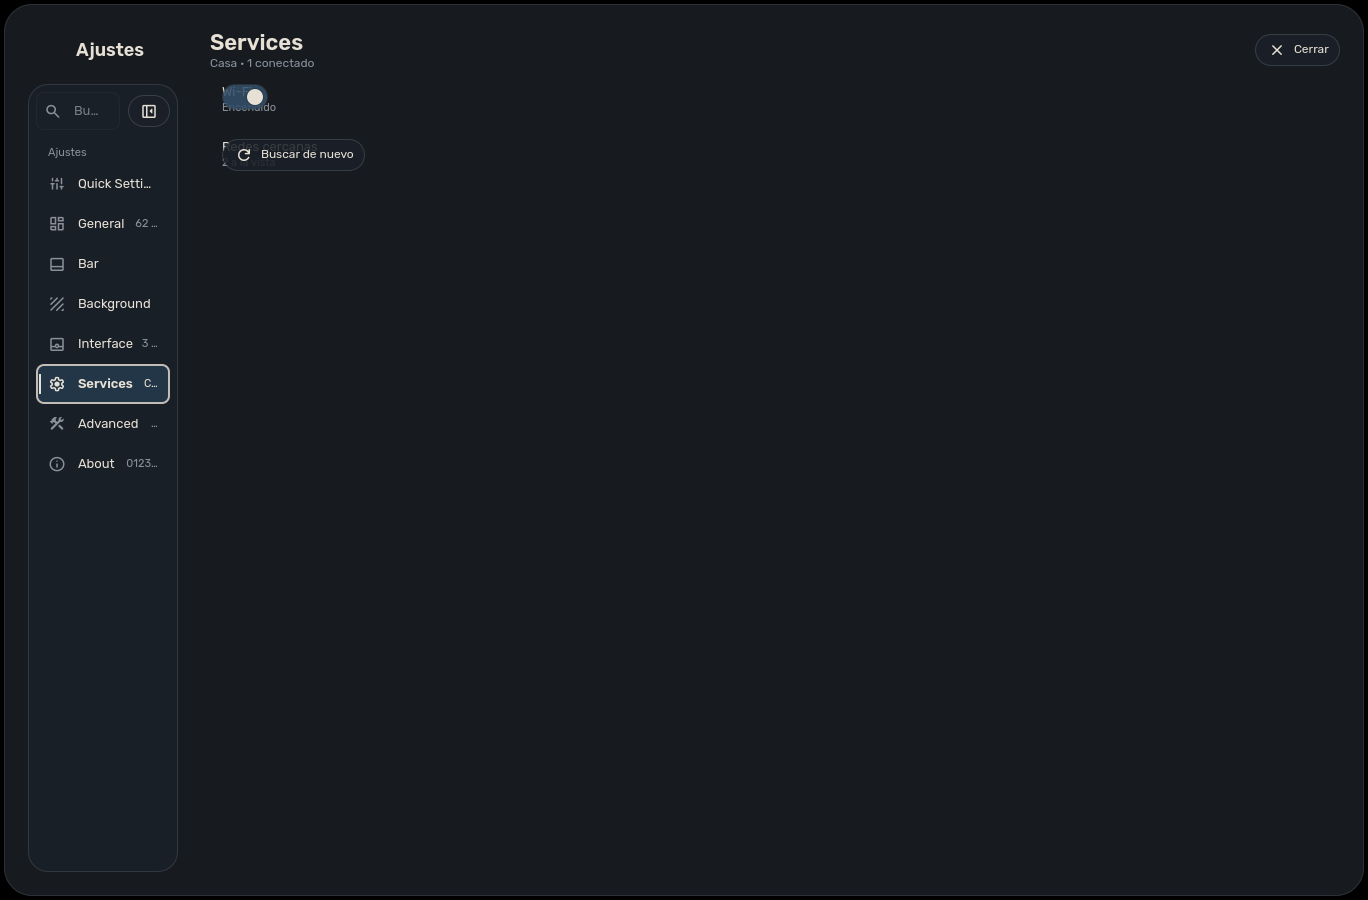
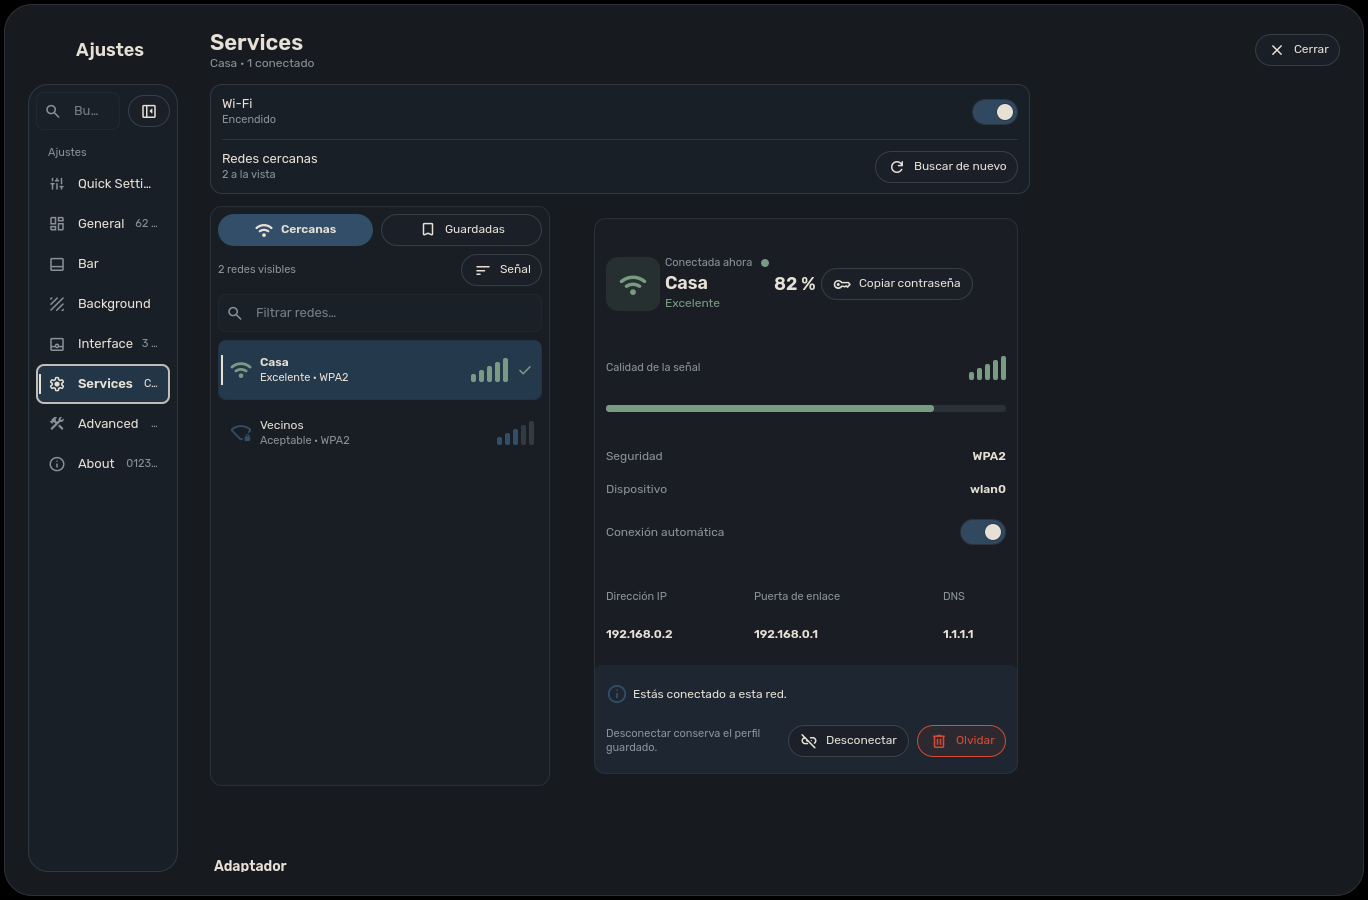
fix(settings): fill services viewport and verify controls

diff --git a/cortetsu/modules/settings/sections/NotificationsSection.qml b/cortetsu/modules/settings/sections/NotificationsSection.qml
@@ -64,6 +64,7 @@ ColumnLayout {
         }
 
         SettingToggleRow {
+            objectName: "toastCapsLockChanged"
             title: qsTr("Avisar de Bloq Mayús")
             detail: qsTr("Un aviso breve al activar o desactivar Bloq Mayús")
             checked: CortetsuConfig.toastCapsLockChanged
@@ -71,6 +72,7 @@ ColumnLayout {
         }
 
         SettingToggleRow {
+            objectName: "toastNumLockChanged"
             title: qsTr("Avisar de Bloq Num")
             detail: qsTr("Un aviso breve al activar o desactivar Bloq Num")
             checked: CortetsuConfig.toastNumLockChanged
@@ -78,6 +80,7 @@ ColumnLayout {
         }
 
         SettingToggleRow {
+            objectName: "toastKbLayoutChanged"
             title: qsTr("Avisar del cambio de distribución")
             detail: qsTr("Un aviso breve al cambiar la distribución del teclado")
             checked: CortetsuConfig.toastKbLayoutChanged
@@ -85,6 +88,7 @@ ColumnLayout {
         }
 
         SettingToggleRow {
+            objectName: "toastDndChanged"
             title: qsTr("Avisar de No molestar")
             detail: qsTr("Un aviso breve al activar o desactivar No molestar")
             checked: CortetsuConfig.toastDndChanged
@@ -92,6 +96,7 @@ ColumnLayout {
         }
 
         SettingToggleRow {
+            objectName: "toastNowPlaying"
             title: qsTr("Avisar de la pista en reproducción")
             detail: qsTr("Un aviso al cambiar de pista o de reproductor")
             checked: CortetsuConfig.toastNowPlaying
@@ -99,6 +104,7 @@ ColumnLayout {
         }
 
         SettingToggleRow {
+            objectName: "notificationOpenExpanded"
             title: qsTr("Abrir avisos expandidos")
             detail: qsTr("Mostrar el cuerpo completo de cada aviso al llegar")
             checked: CortetsuConfig.notificationOpenExpanded

diff --git a/cortetsu/modules/settings/pages/ServicesPage.qml b/cortetsu/modules/settings/pages/ServicesPage.qml
@@ -9,7 +9,10 @@ ColumnLayout {
     id: root
     required property var context
     spacing: CortetsuDesign.spacingSection
-    NetworkPage { context: root.context }
+    NetworkPage {
+        context: root.context
+        Layout.fillWidth: true
+    }
     BluetoothSection { context: root.context }
     AutomationSection { context: root.context }
     WeatherSection {}

diff --git a/scripts/features/test-cortetsu-settings-runtime.py b/scripts/features/test-cortetsu-settings-runtime.py
@@ -625,6 +625,8 @@ ShellRoot {
         [() => !!content && content.pageId === "services" && !!page("wifiPower"), () => {
             window.requestActivate();
             memo.wifi = page("wifiPower");
+            verify(memo.wifi.width >= 500 && Math.abs(memo.wifi.width - content.page.width) <= 1,
+                "the Wi-Fi workbench fills the Settings viewport before its first group is drawn");
             verify(find(memo.wifi, "switch").checked && get("nexus-services").value.includes("Casa"), "the page and navigation show the live connection");
             memo.wifi.forceActiveFocus();
             key(Qt.Key_Space);
@@ -1454,7 +1456,10 @@ ShellRoot {
     ]
 
     readonly property var migratedControls: [
-        [() => CortetsuConfig.loaded, () => { select("interface"); screenDouble.settings = true; window.requestActivate(); }],
+        [() => CortetsuConfig.loaded, () => {
+            root.writes = 0;
+            select("interface"); screenDouble.settings = true; window.requestActivate();
+        }],
         [() => window.active && !!page("desktopClockEnabled"), () => {
             const toggle = page("desktopClockEnabled");
             verify(CortetsuConfig.desktopClockEnabled && toggle.checked, "the desktop clock control starts from the active owner state");
@@ -1493,6 +1498,61 @@ ShellRoot {
             verify(CortetsuConfig.desktopClockEnabled === false && CortetsuConfig.bottomHub.segments.apps === false
                 && CortetsuConfig.useFahrenheit === true && CortetsuConfig.useFuzzyApps === true,
                 "a fresh process restores the clock, Bottom Hub, temperature and fuzzy-search preferences");
+        }]
+    ]
+
+    readonly property var existingPreferenceControls: [
+        [() => CortetsuConfig.loaded, () => { select("interface"); screenDouble.settings = true; window.requestActivate(); }],
+        [() => window.active && !!page("fuzzyActions") && !!page("fuzzySchemes"), () => {
+            verify(Actions.useFuzzy && Schemes.useFuzzy, "launcher search services start from their saved fuzzy preferences");
+            const actions = page("fuzzyActions");
+            actions.forceActiveFocus(); key(Qt.Key_Space);
+            verify(!CortetsuConfig.useFuzzyActions && !Actions.useFuzzy,
+                "the Settings control changes the live launcher action search policy");
+            const schemes = page("fuzzySchemes");
+            schemes.forceActiveFocus(); key(Qt.Key_Space);
+            verify(!CortetsuConfig.useFuzzySchemes && !Schemes.useFuzzy,
+                "the Settings control changes the live scheme search policy");
+        }],
+        [() => CortetsuConfig.saveState === "saved", () => {
+            verify(root.writes === 1, `both search preferences settle into one debounced write (${root.writes})`);
+            root.writes = 0;
+            select("notifications");
+        }],
+        [() => !!page("toastCapsLockChanged") && !!page("toastNumLockChanged")
+            && !!page("toastKbLayoutChanged") && !!page("toastDndChanged")
+            && !!page("toastNowPlaying") && !!page("notificationOpenExpanded"), () => {
+            window.requestActivate();
+        }],
+        [() => window.active, () => {
+            const names = ["toastCapsLockChanged", "toastNumLockChanged", "toastKbLayoutChanged",
+                "toastDndChanged", "toastNowPlaying", "notificationOpenExpanded"];
+            for (const name of names) {
+                const toggle = page(name);
+                verify(toggle.checked, `${name} restores enabled in the test fixture`);
+                toggle.forceActiveFocus(); key(Qt.Key_Space);
+                verify(CortetsuConfig[name] === false && !toggle.checked,
+                    `${name} updates its live preference owner through the Settings control`);
+            }
+        }],
+        [() => CortetsuConfig.saveState === "saved", () => {
+            verify(!CortetsuConfig.useFuzzyActions && !CortetsuConfig.useFuzzySchemes
+                && !CortetsuConfig.toastCapsLockChanged && !CortetsuConfig.toastNumLockChanged
+                && !CortetsuConfig.toastKbLayoutChanged && !CortetsuConfig.toastDndChanged
+                && !CortetsuConfig.toastNowPlaying && !CortetsuConfig.notificationOpenExpanded,
+                "all existing Settings preferences reach their confirmed backend values before persistence");
+            verify(root.writes === 1, `the six notification controls settle into one debounced write (${root.writes})`);
+        }]
+    ]
+
+    readonly property var existingPreferenceControlsRestore: [
+        [() => CortetsuConfig.loaded, () => {
+            verify(!CortetsuConfig.useFuzzyActions && !CortetsuConfig.useFuzzySchemes
+                && !CortetsuConfig.toastCapsLockChanged && !CortetsuConfig.toastNumLockChanged
+                && !CortetsuConfig.toastKbLayoutChanged && !CortetsuConfig.toastDndChanged
+                && !CortetsuConfig.toastNowPlaying && !CortetsuConfig.notificationOpenExpanded
+                && !Actions.useFuzzy && !Schemes.useFuzzy,
+                "a fresh process restores all eight existing preference controls and their search consumers");
         }]
     ]
 
@@ -1851,6 +1911,20 @@ with tempfile.TemporaryDirectory(prefix="cortetsu-settings-") as temporary:
     restored, _ = run(folder, "shell.qml", "migratedControlsRestore", preferences=migrated_saved)
     assert passed(restored) == 1, restored
 
+    existing_saved = {
+        "schema": 1, "useFuzzyActions": True, "useFuzzySchemes": True,
+        "toastCapsLockChanged": True, "toastNumLockChanged": True,
+        "toastKbLayoutChanged": True, "toastDndChanged": True,
+        "toastNowPlaying": True, "notificationOpenExpanded": True,
+    }
+    output, existing_home = run(folder, "shell.qml", "existingPreferenceControls", preferences=existing_saved)
+    assert passed(output) == 18, output
+    existing_persisted = json.loads((existing_home / ".config/cortetsu/preferences.json").read_text())
+    for key in existing_saved.keys() - {"schema"}:
+        assert existing_persisted[key] is False, (key, existing_persisted)
+    restored, _ = run(folder, "shell.qml", "existingPreferenceControlsRestore", preferences=existing_persisted)
+    assert passed(restored) == 1, restored
+
     output, audio_home = run(folder, "shell.qml", "audioPreferences", preferences={"schema": 1})
     assert passed(output) == 5, output
     audio_saved = json.loads((audio_home / ".config/cortetsu/preferences.json").read_text())
@@ -1931,7 +2005,7 @@ with tempfile.TemporaryDirectory(prefix="cortetsu-settings-") as temporary:
     host = run_host(folder)
     assert not host or "SETTINGS_HOST_PASS 1" in host, host
 
-    assert (reactivity, navigation, states, unwritable, pages) == (47, 72, 41, 3, 8), (reactivity, navigation, states, unwritable, pages)
+    assert (reactivity, navigation, states, unwritable, pages) == (47, 72, 42, 3, 8), (reactivity, navigation, states, unwritable, pages)
 assert policies == 16, policies
 print(f"Settings builds in {opened.split()[0]} ms ({opened.split()[1]} items); "
       f"20 cycles of open, eight pages and close take {cycles} ms")

diff --git a/docs/SETTINGS.md b/docs/SETTINGS.md
@@ -143,14 +143,22 @@ to transient volume or brightness feedback.
 The focused control is scrolled into view. Below 940 px of content width the
 Nexus shows icons only, with the destination and its state in a tooltip.
 
-## What is not shown
+## Existing preferences and control coverage
 
-A preference appears in Settings only if something in the running shell reads
-it. H-45's ten live preferences now affect the launcher, notifications or
-toasts, but Settings still does not draw controls for them. Six preferences
-that belonged only to the retired top bar were removed from `CortetsuConfig`;
-old files load safely and those keys are ignored. `test-cortetsu-settings.py`
-fails if a control is wired to a preference with no reader.
+The Interface page exposes independent controls for fuzzy matching of actions
+and schemes. The Notifications page exposes expanded popup bodies and the
+Caps Lock, Num Lock, keyboard-layout, Do Not Disturb and now-playing toasts.
+These eight settings already had shell consumers; the Settings controls now
+have an isolated runtime scenario that toggles each value, checks the live
+search policy for actions and schemes, confirms one debounced write for each
+page's changes, and starts a fresh process to check restoration.
+`test-cortetsu-toasts.py` and the keyboard-state runtime test cover the toast
+owners separately.
+
+Six old preferences belonged only to the retired top bar and were removed from
+`CortetsuConfig`; old files load safely and those keys are ignored.
+`test-cortetsu-settings.py` also fails if a control writes a preference with no
+reader in the running shell.
 
 ## Checks
 
@@ -160,6 +168,7 @@ fails if a control is wired to a preference with no reader.
 | `scripts/features/test-cortetsu-settings.py` | Every destination has a page; every preference written has a reader; one owner for `SUPER+I` |
 | `paletteVariant`, `paletteVariantRestore`, `paletteVariantUnavailable` in `scripts/features/test-cortetsu-settings-runtime.py` | The variant control rejects unknown values, regenerates live Material colours from the saved seed, writes manual origin, restores after restart, explains the no-palette state and guards a direct launcher action |
 | `migratedControls`, `migratedControlsRestore` in `scripts/features/test-cortetsu-settings-runtime.py` | Four migrated controls update their actual consumers, persist, and restore in a fresh HOME/XDG process |
+| `existingPreferenceControls`, `existingPreferenceControlsRestore` in `scripts/features/test-cortetsu-settings-runtime.py` | Eight existing search, notification-expansion and toast settings update their owners, each page batches its changes into one write, and a fresh HOME/XDG process restores them |
 | `cortetsu/tests/qml/settings/tst_SettingsNavigation.qml` | Search and movement as pure functions |
 | `cortetsu/tests/qml/components/tst_StateMessage.qml`, `tst_Slider.qml` | The layout loop and the lost slider binding do not come back |
 | `scripts/features/test-cortetsu-scheme.py` | `set` writes the state file and asks for a config-only reload; a failed `set` reloads nothing |

diff --git a/docs/SETTINGS_VISUAL_QA_2026-11-07.md b/docs/SETTINGS_VISUAL_QA_2026-11-07.md
@@ -36,14 +36,18 @@ captured both non-default themes after selecting each one:
 ![Kurogane theme in Settings](evidence/settings-end4-20261107/cortetsu-kurogane.png)
 
 These pairs show the navigation rail, page headings and the first visible
-controls in each destination. The Services pair is only its first scroll
-viewport: its fixture has no live hardware, and the later Bluetooth,
-automation, weather, recorder and screenshot groups are below that viewport.
-The runtime test exercises those existing service sections separately. Cortetsu
-uses its ink-blue materials, grouped service rows and text hierarchy instead of
-copying end-4's monochrome treatment. Theme captures show Washi's warm paper
-surfaces and Kurogane's compact steel surfaces; theme selection and restoration
-are covered separately by the native runtime tests in [`SETTINGS.md`](SETTINGS.md).
+controls in each destination. The Services pair is its first scroll viewport;
+the fixture has no physical hardware, and Bluetooth, automation, weather,
+recorder and screenshot groups are below that viewport. The runtime test
+exercises those existing service sections separately. Its current Services
+capture was refreshed after a regression check found that the Wi-Fi `Item` did
+not request the available layout width. The new runtime assertion verifies the
+workbench fits the Settings viewport before capturing the corrected layout.
+Cortetsu uses its ink-blue materials, grouped service rows and text hierarchy
+instead of copying end-4's monochrome treatment. Theme captures show Washi's
+warm paper surfaces and Kurogane's compact steel surfaces; theme selection and
+restoration are covered separately by the native runtime tests in
+[`SETTINGS.md`](SETTINGS.md).
 
 ## Verification
 
